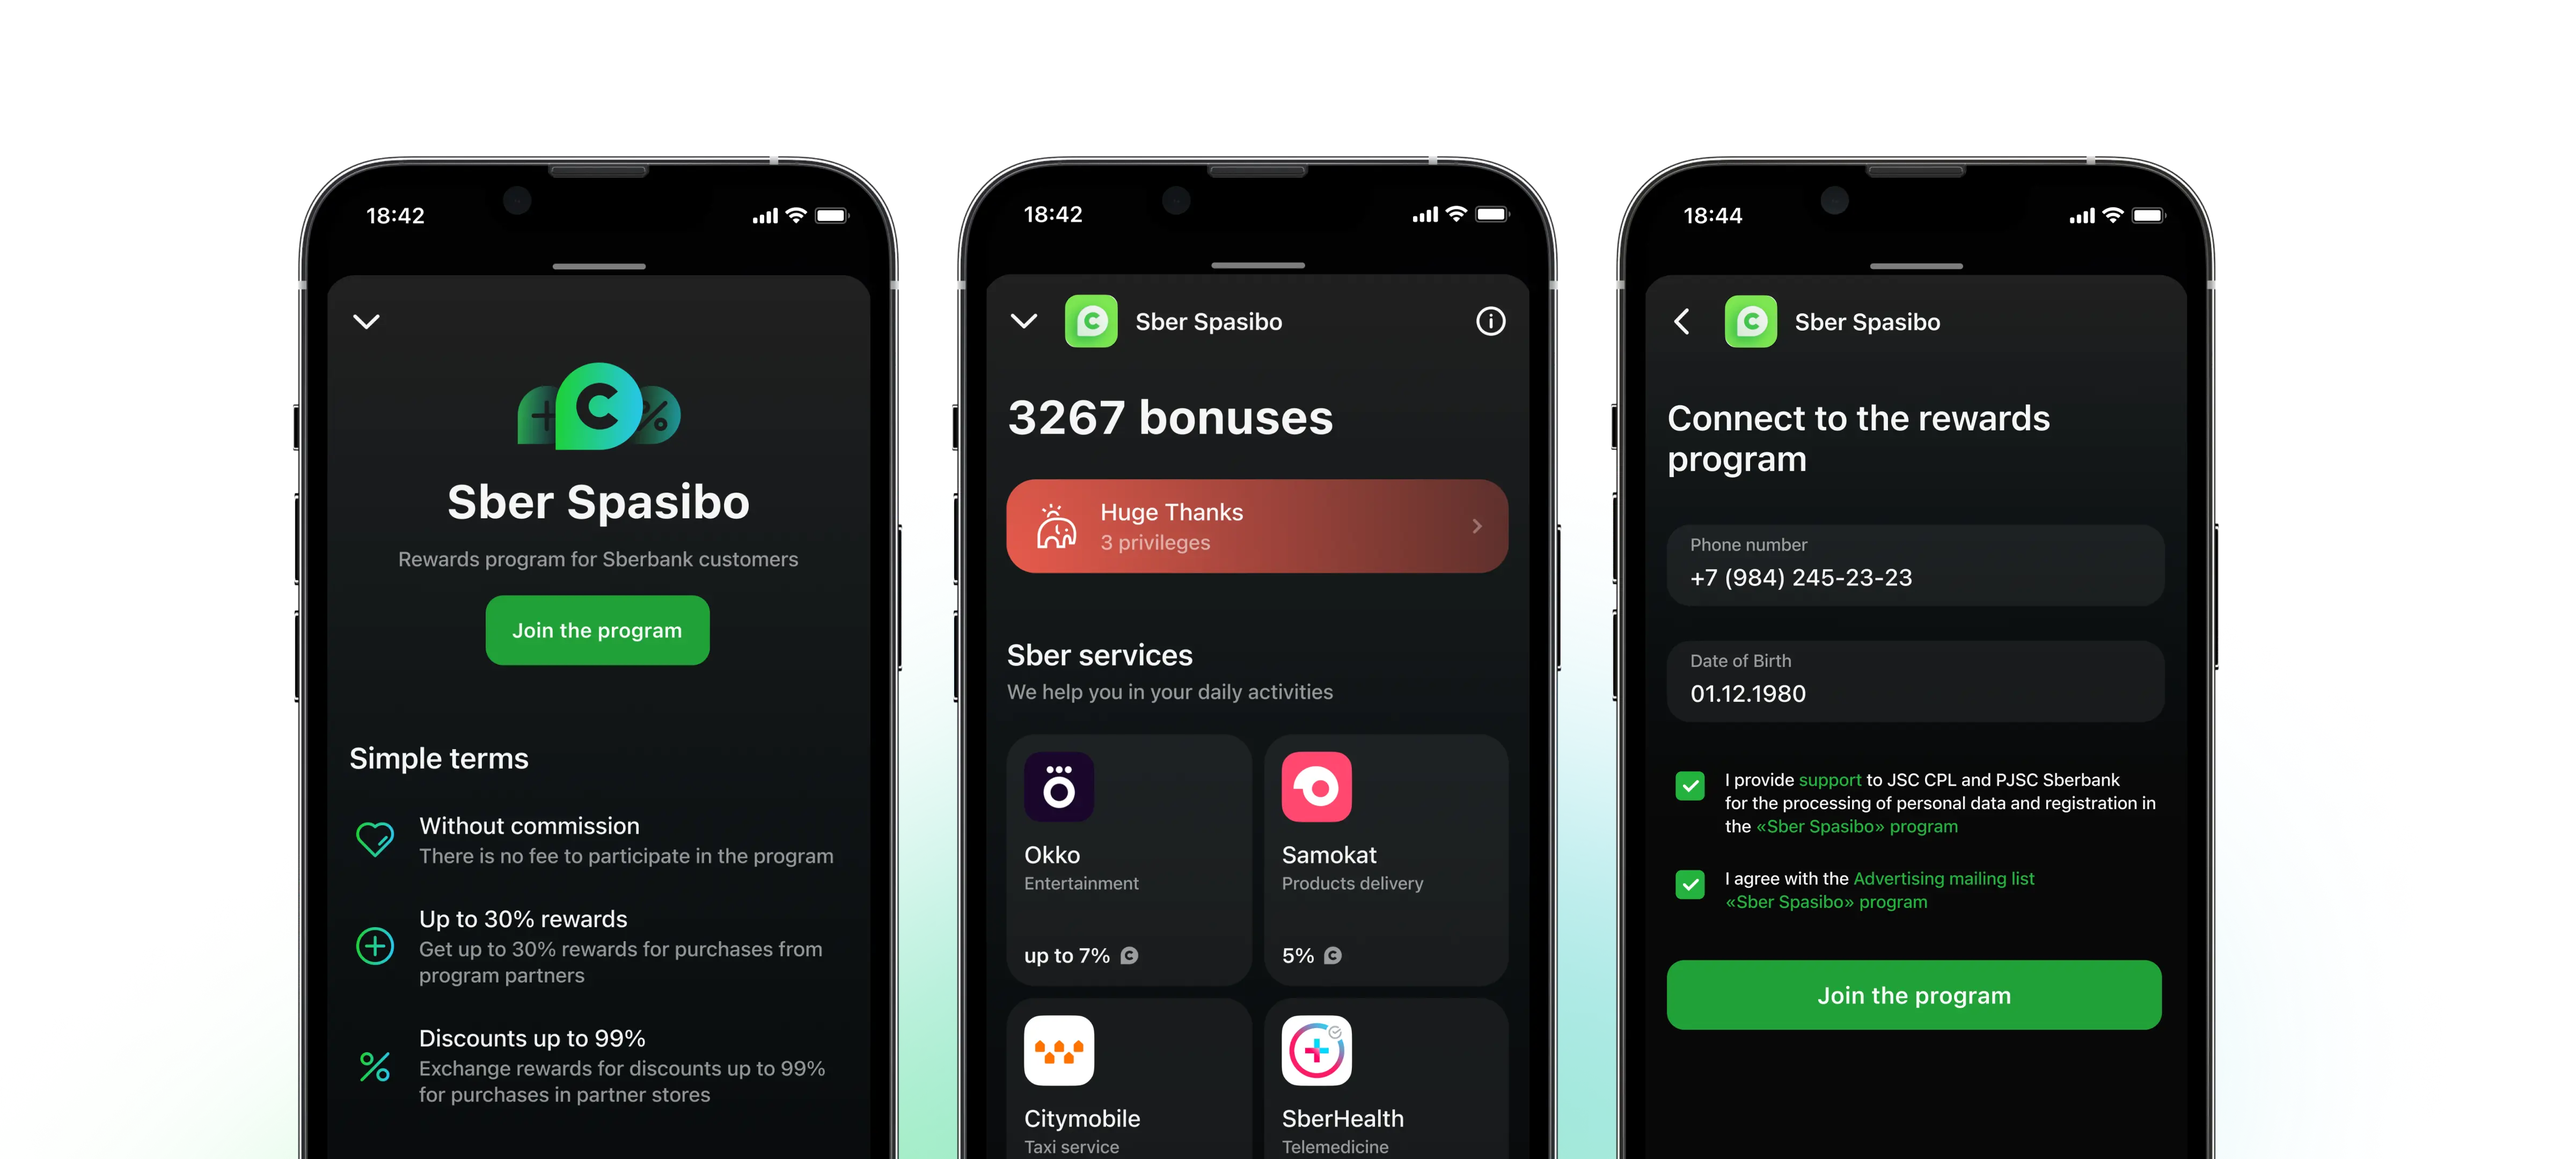
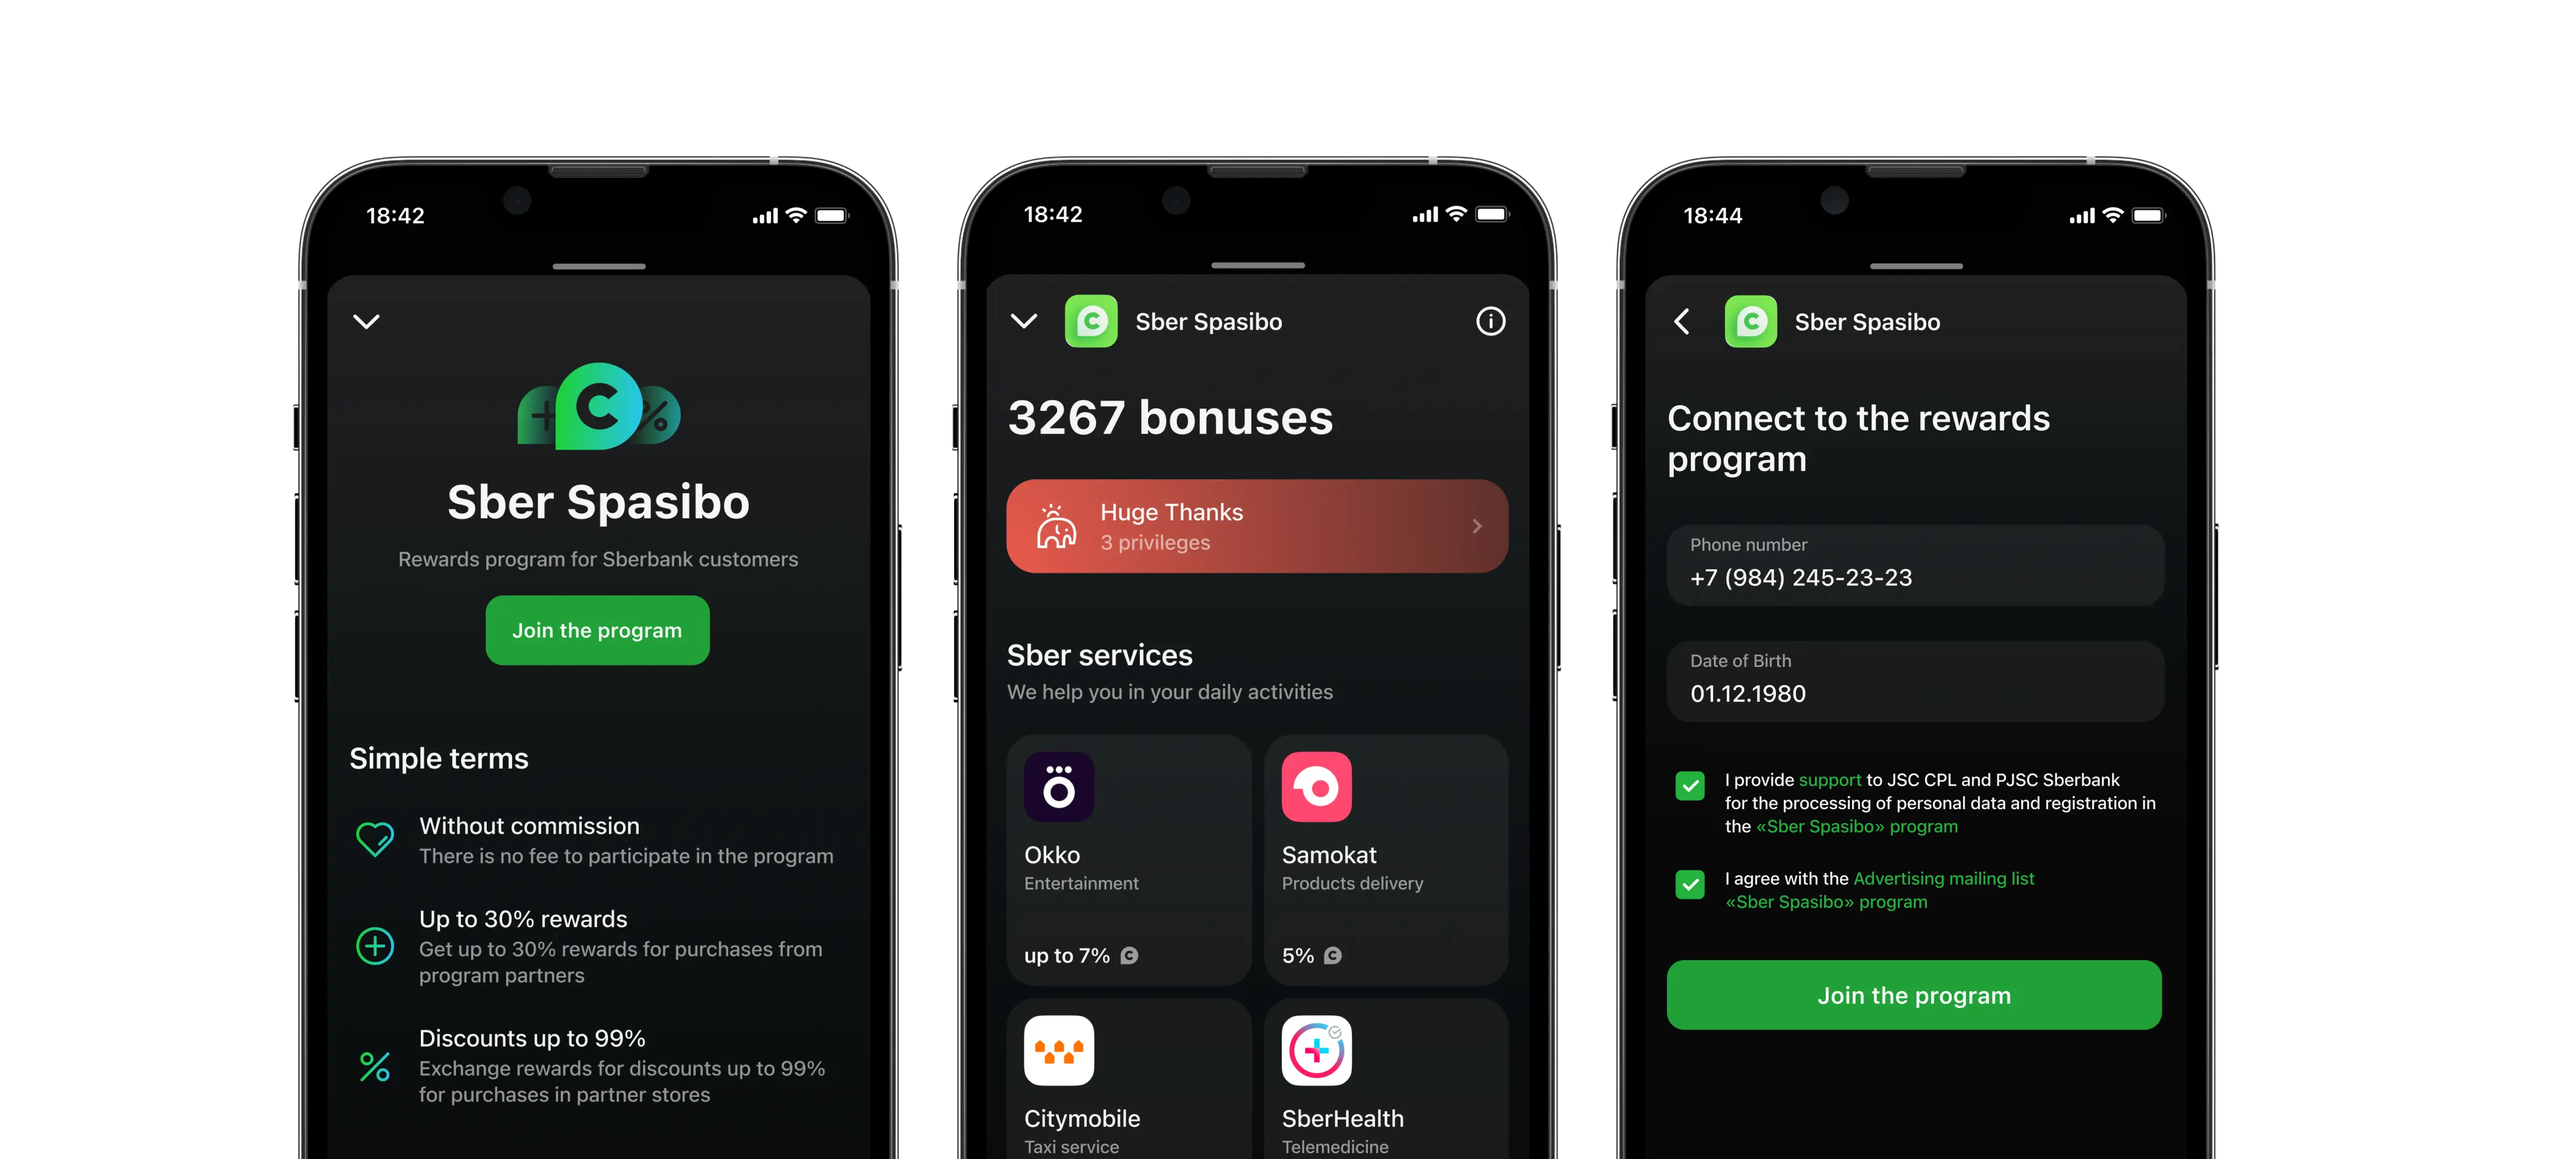
Added webp images

Changed region(s): [[0.5938, 0.6204, 0.625, 1.0], [0.3438, 0.6514, 0.375, 1.0]]

diff --git a/index.html b/index.html
@@ -9,7 +9,7 @@
       <meta http-equiv="Content-Type" content="text/html; charset=utf-8">
       <meta name="language" content="English">
       <meta name="author" content="Alex Andreev">
-      <title>Alex - Designer who making digital banking friendly for 73M+ users worldwide</title>
+      <title>Alex Andreev - Designer who making digital banking friendly for 73M+ users worldwide</title>
       <!-- Hotjar Tracking Code -->
       <script>
          (function(h,o,t,j,a,r){
@@ -73,7 +73,7 @@
          <div class="header-logo-wrapper">
             <a class="logo logo-tinkoff" href="https://tinkoff-group.com/" target="_blank"><img src="/img/icons/ic-logo-tinkoff.svg" alt=""></a>
             <a class="logo logo-rosbank" href="https://www.sberbank.com/" target="_blank"><img src="/img/icons/ic-logo-sberbank.svg" alt=""></a>
-            <a class="logo logo-sberbank" href="https://www.rosbank.ru/en/individuals/" target="_blank"><img src="/img/icons/ic-logo-rosbank.svg" alt=""></a>
+            <a class="logo logo-sberbank" href="https://www.societegenerale.com/" target="_blank"><img src="/img/icons/ic-logo-rosbank.svg" alt=""></a>
             <a class="logo logo-qic" href="https://qic.online/en" target="_blank"><img src="/img/icons/ic-logo-qic.svg" alt=""></a>
          </div>
       </header>
@@ -82,7 +82,7 @@
             <ul class="projects-list">
                <li class="project-item project-item-large">
                   <a href="rewards-program.html" class="project-link">
-                     <img class="project-cover" src="/img/projects/covers/project-cover-sber.png" alt="Sber Spasibo - rewards program for 73 million customers in Eastern Europe.">
+                     <img class="project-cover" src="/img/projects/covers/project-cover-sber.webp" alt="Sber Spasibo - rewards program for 73 million customers in Eastern Europe.">
                      <h2 class="project-title">Federal Bank's Rewards Program</h2>
                      <div class="tags-group">
                         <div class="tag">Senior Product Designer</div>
@@ -126,7 +126,7 @@
                </li>
                <li class="project-item project-item-careerum">
                   <a href="https://www.behance.net/gallery/131759729/Social-Platform" class="project-link" target="_blank">
-                     <img class="project-cover" src="/img/projects/covers/project-cover-social-careerum.png" alt="">
+                     <img class="project-cover" src="/img/projects/covers/project-cover-social-careerum.webp" alt="">
                      <h2 class="project-title">Social Platform</h2>
                      <div class="tags-group">
                         <div class="tag tag-gray">Senior Product Designer</div>
@@ -152,73 +152,6 @@
                   </a>
                </li>
             </ul>
-            <!-- <ul class="projects-list">
-               <li class="project-item project-item-sber">
-                  <a class="project-link" href="rewards-program.html">
-                     <h2 class="project-title">Federal Bank's Rewards Program</h2>
-                     <div class="tags-group">
-                        <div class="tag">Senior Product Designer</div>
-                        <div class="tag">B2C</div>
-                        <div class="tag">MAU 73M+</div>
-                        <div class="tag">2022</div>
-                     </div>
-                     <p class="project-description">
-                        More than 73 million clients of Sberbank in Eastern Europe purchase goods and services through digital banking. They can save money on it by using the rewards program ‘Sber Spasibo’
-                     </p>
-                     <img class="project-cover" src="/img/projects/covers/project-cover-sber.webp" alt="Sber Spasibo - rewards program for 73 million customers in Eastern Europe.">
-                  </a>
-               </li>
-               <li class="project-item project-item-qic-reads">
-                  <a class="project-link" href="qic-reads-login.html">
-                     <h2 class="project-title">Qatar Insurance Journal</h2>
-                     <div class="tags-group">
-                        <div class="tag tag-gray">Lead Product Designer</div>
-                        <div class="tag tag-gray">B2C</div>
-                        <div class="tag tag-gray">AI</div>
-                        <div class="tag tag-gray">2024</div>
-                     </div>
-                     <p class="project-description">Explore Qatar's insurance landscape and lifestyle through the Qatar Insurance Journal, featuring AI-generated graphics and insights into the region's industry</p>
-                     <img class="project-cover" src="/img/projects/covers/project-cover-qic-reads.webp" alt="">
-                  </a>
-               </li>
-               <li class="project-item project-item-qic-policy">
-                  <a class="project-link" href="qic-policy-management-login.html">
-                     <h2 class="project-title">Insurance Policy Management</h2>
-                     <div class="tags-group">
-                        <div class="tag tag-gray">Lead Product Designer</div>
-                        <div class="tag tag-gray">B2C</div>
-                        <div class="tag tag-gray">2023</div>
-                     </div>
-                     <p class="project-description">Spearheaded the creation of an intuitive and efficient interface for managing insurance policies, aimed to simplify the often complex process of managing insurance policies, offering users a cohesive platform to handle their insurance needs effectively</p>
-                     <img class="project-cover" src="/img/projects/covers/project-cover-qic-policy.webp" alt="">
-                  </a>
-               </li>
-               <li class="project-item project-item-social-careerum">
-                  <a class="project-link" href="https://www.behance.net/gallery/131759729/Social-Platform" target="_blank">
-                     <h2 class="project-title">Social Platform</h2>
-                     <div class="tags-group">
-                        <div class="tag tag-gray">Senior Product Designer</div>
-                        <div class="tag tag-gray">EdTech</div>
-                        <div class="tag tag-gray">2021</div>
-                     </div>
-                     <p class="project-description">'Careerum' is connecting professionals globally and facilitating over 400 job offers in leading companies across 28 countries</p>
-                     <img class="project-cover" src="/img/projects/covers/project-cover-social-careerum.webp" alt="">
-                  </a>
-               </li>
-               <li class="project-item project-item-rosbank">
-                  <a class="project-link disabled" href="#nowhere">
-                     <h2 class="project-title">Mobile Bank</h2>
-                     <div class="tags-group">
-                        <div class="tag tag-gray">Product Designer</div>
-                        <div class="tag tag-gray">B2C</div>
-                        <div class="tag tag-gray">MAU 350K+</div>
-                        <div class="tag tag-gray">2021</div>
-                     </div>
-                     <p class="project-description">'Rosbank Online' offers a seamless banking experience to over 350k active monthly users in Eastern Europe</p>
-                     <img class="project-cover" src="/img/projects/covers/project-cover-rosbank.webp" alt="">
-                  </a>
-               </li>
-            </ul> -->
          </section>
          <section class="updates" id="updates">
             <h2 class="section-title">Recent Alex's highlights</h2>
